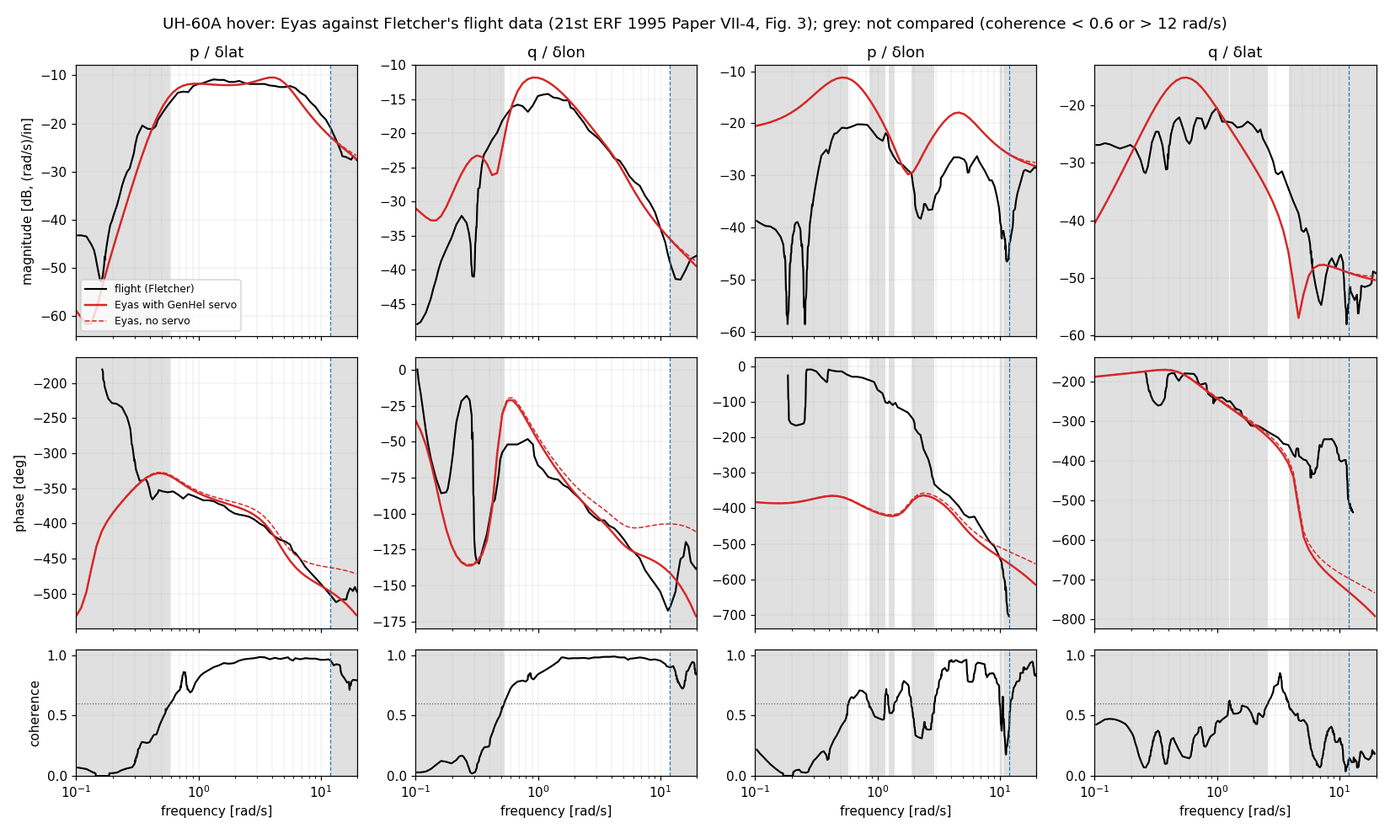
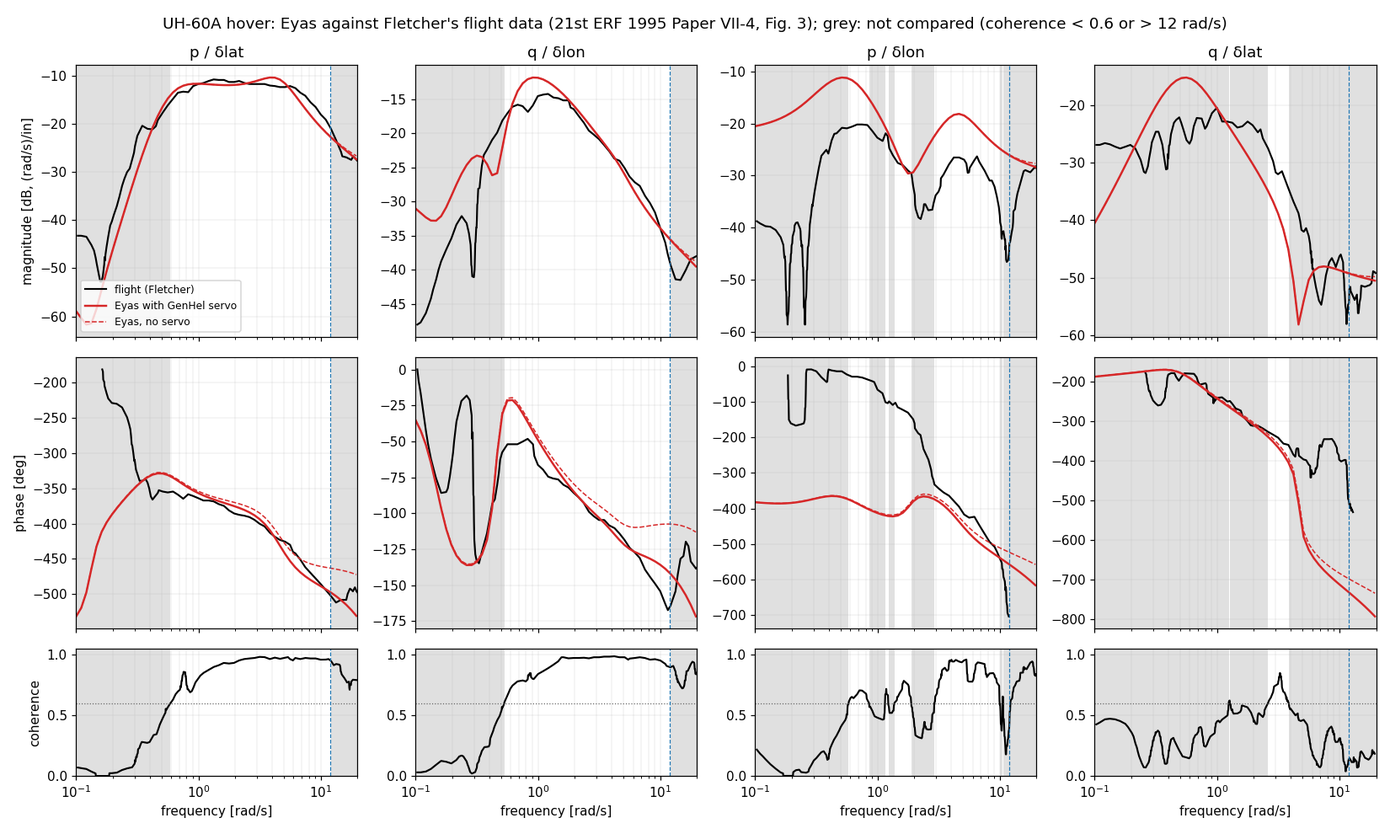
Wake curvature review: the tip-path plane on an offset hinge, three blades
- The tips sit R − e out from the hinges, so the plane tilts by (1 − e/R)
  times the flap coefficients; the test reference now differentiates the
  tip heights (it shared the old assumption). Fletcher hover rerun: q/δlat
  −29 / 30°, −8.2 / 8.3 dB; p/δlon 8.2 / 8.7 dB.
- wake_curvature needs three blades or more (with two, β_1c isn't a tilt).
- One copy of the pitt_peters check (validate); no dead fade branch;
  equation citations at the code.
- Docs: the plots' generator outputs named; App. D's section points to the
  new comparison.

Claude-Session: https://claude.ai/code/session_01URPo1vS9ZdajqvD2QM5iLx

diff --git a/tests/unit/test_pitt_peters.cpp b/tests/unit/test_pitt_peters.cpp
@@ -717,8 +717,9 @@ BladeElementRotorConfig curved_rotor(RotationDirection dir, double k_r) {
 // Eq. 11.159: the extra downwash is K_R times the disc's downward velocity):
 // the downward velocity over ΩR of the tip-path plane's points (R, ψ), from
 // the shaft's rotation (ω_h × R e_r(ψ), D-024) and from the plane's tilt rate
-// (central differences of the blades' first harmonic, the blade states
-// advanced at their own rates), fitted to cos ψ and sin ψ.
+// (central differences of the blades' tip heights' first harmonic, a tip
+// R − e out from its hinge, the blade states advanced at their own rates),
+// fitted to cos ψ and sin ψ.
 Vec3 curvature_reference(const BladeElementRotor& rotor, const SimContext& ctx,
                          const std::vector<double>& x, double k_r) {
     const BladeElementRotorConfig& c = rotor.config();
@@ -727,15 +728,16 @@ Vec3 curvature_reference(const BladeElementRotor& rotor, const SimContext& ctx,
     const double R = c.radius;
     const double s = c.direction == RotationDirection::counter_clockwise ? 1.0 : -1.0;
     const int nb = c.num_blades;
+    const double e = c.flap->offset;
     const auto tilt = [&](double tau) {
         double b1c = 0.0;
         double b1s = 0.0;
         for (int i = 0; i < nb; ++i) {
             const auto j = static_cast<std::size_t>(2 * i);
             const double psi = k.psi + W * tau - 2.0 * kPi * i / nb;
-            const double b = x[j] + x[j + 1] * tau;
-            b1c += 2.0 * b * std::cos(psi) / nb;
-            b1s += 2.0 * b * std::sin(psi) / nb;
+            const double tip_height = (R - e) * (x[j] + x[j + 1] * tau);
+            b1c += 2.0 * tip_height * std::cos(psi) / nb;
+            b1s += 2.0 * tip_height * std::sin(psi) / nb;
         }
         return std::array<double, 2>{b1c, b1s};
     };
@@ -751,7 +753,7 @@ Vec3 curvature_reference(const BladeElementRotor& rotor, const SimContext& ctx,
         const double psi = 2.0 * kPi * i / kPoints;
         const Vec3 e_r(-std::cos(psi), s * std::sin(psi), 0.0);
         const double shaft_down = k.omega_h.cross(R * e_r).z();
-        const double plane_up = R * (b1c_dot * std::cos(psi) + b1s_dot * std::sin(psi));
+        const double plane_up = b1c_dot * std::cos(psi) + b1s_dot * std::sin(psi);
         const double w = (shaft_down - plane_up) / (W * R);
         lc += 2.0 * w * std::cos(psi) / kPoints;
         ls += 2.0 * w * std::sin(psi) / kPoints;
@@ -808,6 +810,18 @@ TEST(PittPetersRotor, WakeCurvatureFromTheTipPathPlaneRate) {
             }
         }
     }
+}
+
+// The flap coefficients are a disc tilt only with three blades or more.
+TEST(PittPetersRotor, WakeCurvatureNeedsThreeBlades) {
+    BladeElementRotorConfig c = curved_rotor(RotationDirection::counter_clockwise, 1.75);
+    c.num_blades = 2;
+    EXPECT_THROW(BladeElementRotor{c}, InitError);
+    c.wake_curvature.reset();
+    EXPECT_NO_THROW(BladeElementRotor{c});
+    c = curved_rotor(RotationDirection::counter_clockwise, 1.75);
+    c.num_blades = 3;
+    EXPECT_NO_THROW(BladeElementRotor{c});
 }
 
 // Off, at K_R = 0 and from μ_f: the same bits as a rotor without the key.

diff --git a/src/rotor/blade_element_rotor.cpp b/src/rotor/blade_element_rotor.cpp
@@ -102,6 +102,11 @@ void validate(const BladeElementRotorConfig& c) {
         if (c.inflow != InflowModel::pitt_peters) {
             fail("wake_curvature needs pitt_peters inflow");
         }
+        // The flap coefficients are a disc tilt only with three blades or
+        // more (with two, β_1c carries the blades' differential flap).
+        if (c.num_blades < 3) {
+            fail("wake_curvature needs three blades or more");
+        }
         if (!(c.wake_curvature->k_r >= 0.0) || !std::isfinite(c.wake_curvature->k_r)) {
             fail("wake_curvature: k_r must be non-negative and finite");
         }
@@ -664,18 +669,21 @@ void BladeElementRotor::derivatives(const SimContext& ctx, std::span<const doubl
             out.xdot0[iv] = (target - deficit) * t.lambda_h * kin.omega /
                             (kVortexRingLagCoefficient * 2.0 * std::numbers::pi * inflow_tip_);
         }
-        // Wake curvature (D-062): the gradients relax to K_R(μ) times the
-        // tip-path plane's pitch and roll rate; nothing at K_R(μ) = 0.
+        // Wake curvature (D-062; Johnson 2013 Eqs. 11.155, 11.158): the
+        // gradients relax to K_R(μ) times the tip-path plane's pitch and roll
+        // rate; nothing at K_R(μ) = 0. The tips sit R − e out from the
+        // hinges, so the plane tilts by (1 − e/R) β_1c, β_1s.
         Vec3 curvature = Vec3::Zero();
         if (config_.wake_curvature) {
             const double k_r = wake_curvature_gain(
                 config_.wake_curvature->k_r, config_.wake_curvature->fade_advance_ratio, kin.mu);
             if (k_r > 0.0) {
-                const MultibladeFlapRate tpp =
+                const MultibladeFlapRate rate =
                     config_.flap ? multiblade_flap_rate(x, kin.psi, kin.omega, config_.num_blades)
                                  : MultibladeFlapRate{};
-                curvature =
-                    wake_curvature_inflow(k_r, kin.omega_h, tpp.beta1c, tpp.beta1s, s_, kin.omega);
+                const double tip = 1.0 - hinge_offset() / config_.radius;
+                curvature = wake_curvature_inflow(k_r, kin.omega_h, tip * rate.beta1c,
+                                                  tip * rate.beta1s, s_, kin.omega);
             }
         }
         const Vec3 rates = pitt_peters_rates(
@@ -982,9 +990,6 @@ std::unique_ptr<BladeElementRotor> BladeElementRotor::from_config(const Config& 
         const Config wc = node.child("wake_curvature");
         wc.allow_keys({"k_r", "fade_advance_ratio"});
         c.wake_curvature = WakeCurvature{wc.number("k_r"), wc.number("fade_advance_ratio")};
-        if (c.inflow != InflowModel::pitt_peters) {
-            node.fail("wake_curvature", "needs inflow: pitt_peters");
-        }
     } else if (node.string("wake_curvature") != "none") {
         node.fail("wake_curvature", "must be none or a map {k_r, fade_advance_ratio}");
     }

diff --git a/src/rotor/pitt_peters.cpp b/src/rotor/pitt_peters.cpp
@@ -69,14 +69,16 @@ Vec3 pitt_peters_rates(const Vec3& lambda, const Vec3& loads, double mu, double 
 }
 
 double wake_curvature_gain(double k_r, double fade, double mu) noexcept {
-    return mu >= fade ? 0.0 : k_r * (1.0 - smoothstep(mu / fade));
+    // smoothstep clamps at 1, so the gain is exactly 0 from μ_f.
+    return k_r * (1.0 - smoothstep(mu / fade));
 }
 
 Vec3 wake_curvature_inflow(double k_r, const Vec3& omega_h, double beta1c_dot, double beta1s_dot,
                            double s, double omega) noexcept {
     // The disc point r e_r(ψ), e_r = (−cos ψ, s sin ψ, 0) (D-024), moves down
     // (z_h) at r (q_h cos ψ + s p_h sin ψ) with the shaft and up at
-    // r (β̇_1c cos ψ + β̇_1s sin ψ) with the tip-path plane's tilt.
+    // r (β̇_1c cos ψ + β̇_1s sin ψ) with the tip-path plane's tilt (Johnson
+    // 2013 Eq. 11.159).
     return {0.0, k_r * (s * omega_h.x() - beta1s_dot) / omega,
             k_r * (omega_h.y() - beta1c_dot) / omega};
 }

diff --git a/src/rotor/pitt_peters.hpp b/src/rotor/pitt_peters.hpp
@@ -99,9 +99,9 @@ double wake_curvature_gain(double k_r, double fade, double mu) noexcept;
 // tip-path plane's downward velocity gradient over ΩR, in hub axes,
 //   λ_K,1c = K_R (q_h − β̇_1c)/Ω,  λ_K,1s = K_R (s p_h − β̇_1s)/Ω,
 // (Johnson 2013 Eqs. 11.155, 11.158–11.159), with omega_h the body rate in
-// hub axes [rad/s], (beta1c_dot, beta1s_dot) the rates of the multiblade flap
-// coefficients [rad/s], s = +1 counter-clockwise from above, −1 clockwise, and
-// omega = Ω [rad/s].
+// hub axes [rad/s], (beta1c_dot, beta1s_dot) the tip-path plane's tilt rates
+// [rad/s] (on an offset hinge, (1 − e/R) times the flap coefficients'),
+// s = +1 counter-clockwise from above, −1 clockwise, and omega = Ω [rad/s].
 Vec3 wake_curvature_inflow(double k_r, const Vec3& omega_h, double beta1c_dot, double beta1s_dot,
                            double s, double omega) noexcept;
 

diff --git a/src/rotor/multiblade.hpp b/src/rotor/multiblade.hpp
@@ -37,7 +37,7 @@ inline MultibladeFlap multiblade_flap(std::span<const double> x, double psi,
 }
 
 // Rates of the cyclic flap coefficients [rad/s] (D-062): d/dt of β_1c and
-// β_1s above, with x[2k + 1] = β̇_k and ψ̇ = omega = Ω [rad/s]:
+// β_1s above (Padfield 3rd ed. Eqs. 3.42–3.45), with x[2k + 1] = β̇_k and ψ̇ = omega = Ω [rad/s]:
 //   β̇_1c = (2/N) Σ (β̇_k cos ψ_k − Ω β_k sin ψ_k),
 //   β̇_1s = (2/N) Σ (β̇_k sin ψ_k + Ω β_k cos ψ_k).
 struct MultibladeFlapRate {

diff --git a/docs/VALIDATION.md b/docs/VALIDATION.md
@@ -880,7 +880,7 @@ Cruise main-rotor power is in D-039 (mean −45 hp against GenHel); with GenHel'
 
 - *On-axis, 1.5–12 rad/s (roll from lateral, pitch from longitudinal):* Eyas matches the flight data in both conditions: magnitude within 1.6 dB RMS, phase within 12° RMS. This is the band of the rotor-fuselage coupled roll and pitch response that flight control design works in.
 - *On-axis, below 1.5 rad/s (the whole-aircraft modes), open:* in hover, Eyas's pitch response is 3.7 dB too large on average from 0.56 rad/s (where the coherence first reaches 0.6) to 1.5 rad/s, with a higher peak near 0.7 rad/s. At 80 kt the magnitudes are close, but Eyas leads in phase: 27° on average in roll, below 1 rad/s, and 43° in pitch at 0.2–1 rad/s, up to 85°. The flight roll response stays flat in magnitude down to 0.1 rad/s; Eyas's falls by about 5 dB, with phase lead, as with a stronger roll restoring moment through sideslip. The likely suspects are the slow-mode derivatives: the speed and incidence stability in pitch, and the dihedral and weathercock stability in roll and yaw. The condensed-model modes against Padfield §4.3 (the rest of V2) are the next check.
-- *Off-axis (roll from longitudinal, pitch from lateral), known limitation:* Eyas misses badly in both conditions (phase off by 140–160° on average in hover; magnitude off by up to 13 dB in hover and 28 dB at 80 kt). This is the documented limitation of blade-element rotors with Pitt–Peters inflow. Fletcher (p. VII-4-3) writes that such models "predict the on-axis responses well to about 10 rad/sec but have deficiencies in their off-axis angular rate response prediction", reports the same for AH-64 and BO 105 models, and attributes it to the wake distortion in pitch and roll that Pitt–Peters doesn't model (p. VII-4-4, after Rosen). Padfield 3rd ed. §5.3.3 (p. 298) calls it "a common feature of current modelling standards". Fletcher's fix is an identified aerodynamic phase lag in the flapping equations, a fitted equivalent. A wake-distortion model is added to M9 (D-041). *Since D-062* (M9, "Wake curvature"): the hover pitch-from-lateral phase error falls to −30 / 32°; roll from longitudinal grows to 8.9 dB RMS (#100); 80 kt unchanged.
+- *Off-axis (roll from longitudinal, pitch from lateral), known limitation:* Eyas misses badly in both conditions (phase off by 140–160° on average in hover; magnitude off by up to 13 dB in hover and 28 dB at 80 kt). This is the documented limitation of blade-element rotors with Pitt–Peters inflow. Fletcher (p. VII-4-3) writes that such models "predict the on-axis responses well to about 10 rad/sec but have deficiencies in their off-axis angular rate response prediction", reports the same for AH-64 and BO 105 models, and attributes it to the wake distortion in pitch and roll that Pitt–Peters doesn't model (p. VII-4-4, after Rosen). Padfield 3rd ed. §5.3.3 (p. 298) calls it "a common feature of current modelling standards". Fletcher's fix is an identified aerodynamic phase lag in the flapping equations, a fitted equivalent. A wake-distortion model is added to M9 (D-041). *Since D-062* (M9, "Wake curvature"): the hover pitch-from-lateral phase error falls to −29 / 30°; roll from longitudinal grows to 8.7 dB RMS (#100); 80 kt unchanged.
 - *Yaw rate to collective (Figs. 7 and 13), open:* `tools/plot_m7c_fletcher.py` also compares r per inch of collective (`m7c_fletcher_yaw.png`) against the reviewed flight curves (DATA_GAPS.md). Every reading Fletcher drew is compared, since these figures have no coherence panel: 0.53–9.5 rad/s in hover and 3.2–9.6 rad/s at 80 kt. Eyas with the servo, mean / RMS:
 
   | | magnitude [dB] | phase [deg] |
@@ -1328,7 +1328,7 @@ Generator `eyas_ballin_app_d_cases` (`tests/validation/ballin_app_d_cases.cpp`),
   - *Main rotor, through the mixer's MIX_BP:* −9 480 ft·lbf/in, against −9 300 from the hinge-offset spring (N/2)eM_βΩ², the thrust tilt T·h and the thrust change at the hub's offset, for Eyas's 1.90°/in of β₁c. The flapping per degree of cyclic behind it matched Fletcher's flight data at M7c (on-axis pitch, 0.8 dB at 80 kt).
   - *Stabilator wash:* +1.95 ft/s/in, against +1.94 from the tail-wash table (Table 3.5.2, p. 5.3-20). It comes from the main rotor's downwash dropping with its thrust; the flapping input a₁ barely moves the factor, so the AA1FMR ruling (DATA_GAPS.md) doesn't enter.
   The net held response is about −2 800 ft·lbf/in nose-down for right pedal. Most of the gap from GenHel builds later. In D16, GenHel's pitch rate is −1.6 deg/s and Eyas's −0.8 at 0.55 s after the pedal moves, but −8.0 and −3.9 at 1.3 s, while the sideslip grows from −1° to −11° and the yaw rate to 15 deg/s. In that phase Eyas's stabilator turns nose-up (+2 000 to +3 700 ft·lbf as its angle of attack falls by about 1.3°) and stops the motion. The suspects are now the sideslip- and rate-dependent airframe terms (the fuselage and stabilator tables against sideslip, the stabilator's dynamic-pressure ratio), and anything in the Ames simulation that CR-166309 doesn't describe. Open.
-- *Off-axis* (pitch and yaw to lateral, roll to longitudinal): all three simulations miss parts of the test's off-axis response, as Ballin says of GenHel (p. 11, the linear mechanical mixing). Not yet compared in detail.
+- *Off-axis* (pitch and yaw to lateral, roll to longitudinal): all three simulations miss parts of the test's off-axis response, as Ballin says of GenHel (p. 11, the linear mechanical mixing). Not yet compared in detail. *Since D-062* (M9, "Wake curvature"), the hover steps' off-axis responses are compared there; the plots in this section are without wake curvature.
 
 ![D1](validation/m8/ballin_app_d_d1.png)
 ![D13](validation/m8/ballin_app_d_d13.png)
@@ -2008,10 +2008,10 @@ Johnson's wake curvature on the Pitt–Peters inflow gradients (D-062): K_R = 1.
 |---|---|---|
 | Exact-equation reference, rotor wiring, neutrality, real-time | ✅ | `PittPeters.WakeCurvature*`, `PittPetersRotor.WakeCurvature*`: Johnson's Eq. 11.155 in his own notation; the rotor against the tip-path-plane rate computed independently, both rotation directions; `none`, K_R = 0 and μ ≥ 0.125 bit-identical; no allocation. |
 | Closed form, Johnson Eq. 19.92 | ✅ | `PittPetersAnchors.WakeCurvatureScalesTheOffAxisFlapping`: the change in off-axis static flapping is −K_R α̇ within 1 % (K_R = 0.5 and 1.75), and the on-axis flapping is unchanged within 1 %. |
-| Fletcher hover q/δlat: phase error below 90° | ✅ | −164 / 164° → −30 / 32° (mean / RMS). |
-| Fletcher hover p/δlon: phase error below 90° | ✅ | −72 / 89° → −61 / 101°. |
-| Off-axis magnitude RMS no worse | ❌ p/δlon, ✅ q/δlat | p/δlon 5.7 → 8.9 dB; q/δlat 10.6 → 8.5 dB. The cause is a cross-coupling deficit the term uncovers (D-062; #100). |
-| On-axis moves under 1 dB and 10° RMS | ✅ | 1.5–12 rad/s: within 0.1 dB and 1.6°. |
+| Fletcher hover q/δlat: phase error below 90° | ✅ | −164 / 164° → −29 / 30° (mean / RMS). |
+| Fletcher hover p/δlon: phase error below 90° | ✅ | −72 / 89° → −62 / 102°. |
+| Off-axis magnitude RMS no worse | ❌ p/δlon, ✅ q/δlat | p/δlon 5.7 → 8.7 dB; q/δlat 10.6 → 8.3 dB. The cause is a cross-coupling deficit the term uncovers (D-062; #100). |
+| On-axis moves under 1 dB and 10° RMS | ✅ | 1.5–12 rad/s: within 0.1 dB and 1.5°. |
 | Fletcher 80 kt | ✅ | Bit-identical (K_R = 0 above μ = 0.125). |
 | Ballin's App. D/E hover steps | ✅ reported | Pitch from lateral steps follows the flight test (below). |
 | The V1 gate and the climbs | ✅ | `BallinTrim.*` pass unchanged. `eyas_m7c_cases` on Ballin's engines: every level, climb and descent trim agrees with the baseline to the solver's tolerance (sixth significant figure). A steady trim has a tip-path-plane rate only in its 4/rev ripple, so the term barely enters. |
@@ -2021,14 +2021,14 @@ Johnson's wake curvature on the Pitt–Peters inflow gradients (D-062): K_R = 1.
 | | magnitude [dB] | phase [deg] |
 |---|---|---|
 | p/δlat | −0.6 / 1.6 → −0.6 / 1.7 | −3.5 / 11.5 → −3.1 / 11.3 |
-| q/δlon | 0.0 / 1.2 → −0.1 / 1.1 | 3.0 / 8.7 → 4.9 / 10.3 |
-| p/δlon | 5.1 / 5.7 → 8.4 / 8.9 | −71 / 89 → −61 / 101 |
-| q/δlat | −10.5 / 10.7 → −8.3 / 8.5 | −164 / 164 → −30 / 32 |
+| q/δlon | 0.0 / 1.2 → −0.1 / 1.1 | 3.0 / 8.7 → 4.8 / 10.1 |
+| p/δlon | 5.1 / 5.7 → 8.2 / 8.7 | −71 / 89 → −62 / 102 |
+| q/δlat | −10.5 / 10.7 → −8.1 / 8.3 | −164 / 164 → −29 / 30 |
 
-- *Below 1.5 rad/s, on-axis:* the magnitudes get closer (p/δlat 2.2 → 1.0, q/δlon 4.0 → 2.6 dB RMS), and the phases get further (3.0 → 12.1°, 10.8 → 18.9°).
-- *Sensitivity* (D-062's table): q/δlat improves with K_R (RMS 10.7 / 8.5 / 6.8 / 5.6 dB at 1.5 / 1.75 / 2.0 / 2.2), and p/δlon worsens (8.5 / 8.9 / 9.3 / 9.7 dB). No value in the sources' range passes both.
+- *Below 1.5 rad/s, on-axis:* the magnitudes get closer (p/δlat 2.2 → 1.0, q/δlon 4.0 → 2.6 dB RMS), and the phases get further (3.0 → 12.2°, 10.8 → 18.9°).
+- *Sensitivity* (D-062's table): q/δlat improves with K_R (RMS 10.5 / 8.3 / 6.6 / 5.4 dB at 1.5 / 1.75 / 2.0 / 2.2), and p/δlon worsens (8.3 / 8.7 / 9.1 / 9.4 dB). No value in the sources' range passes both.
 - *The hover modes:* the pitch subsidence goes from −1.02 to −0.87 1/s and the roll subsidence from −5.93 to −5.64. The low-frequency oscillation becomes more unstable (+0.201 ± 0.356i → +0.251 ± 0.316i), and its stable partner becomes more damped (−0.176 ± 0.470i → −0.287 ± 0.488i).
-- *Why p/δlon grows* (D-062, the probes): the term flips the roll moment from pitch rate (L_q −0.87 → +1.32), as Johnson's Eq. 21.51 has it for K_R > 1. Before, that moment partly cancelled the direct roll from longitudinal cyclic; now the two add. The direct coupling itself is too large: Eyas's rotor cross-couples about 4° less than the one GenHel's −9.7° swashplate phase was set for. With Fletcher's identified δ3 = 7.84° added (a probe, not adopted), both off-axis responses come within 4.5 dB and 38° RMS. Open in #100, a source for the hardware's coupling in #101.
+- *Why p/δlon grows* (D-062, the probes): the term flips the roll moment from pitch rate (L_q −0.87 → +1.32), as Johnson's Eq. 21.51 has it for K_R > 1. Before, that moment partly cancelled the direct roll from longitudinal cyclic; now the two add. The direct coupling itself is too large: Eyas's rotor cross-couples about 4° less than the one GenHel's −9.7° swashplate phase was set for. With Fletcher's identified δ3 = 7.84° added (a probe on the first version, before the hinge-offset fix; not adopted), both off-axis responses come within 4.5 dB and 38° RMS. Open in #100, a source for the hardware's coupling in #101.
 
 **Ballin's App. D/E hover steps, Eyas − flight test, RMS over the 2 s from the input** (GenHel's servos; off → on; the 60 and 100 kt cases are unchanged):
 
@@ -2036,10 +2036,10 @@ Johnson's wake curvature on the Pitt–Peters inflow gradients (D-062): K_R = 1.
 |---|---|---|---|
 | D1 | 1-in. right cyclic | pitch rate 1.56 → 0.35 deg/s | roll rate 1.13 → 1.00 deg/s |
 | D2 | 1-in. left cyclic | pitch rate 2.05 → 0.57 deg/s | roll rate 1.20 → 1.13 deg/s |
-| D3 | 0.5-in. forward cyclic | roll rate 0.64 → 1.06 deg/s | pitch rate 0.99 → 0.96 deg/s |
-| E1 | 0.5-in. aft cyclic | roll rate 1.75 → 0.89 deg/s | pitch rate 2.15 → 2.30 deg/s |
+| D3 | 0.5-in. forward cyclic | roll rate 0.64 → 1.07 deg/s | pitch rate 0.99 → 0.96 deg/s |
+| E1 | 0.5-in. aft cyclic | roll rate 1.75 → 0.88 deg/s | pitch rate 2.15 → 2.30 deg/s |
 | D4 | 1-in. up collective | pitch rate 1.52 → 1.32, roll rate 0.45 → 0.73 deg/s | vertical accel. 0.79 → 0.78 ft/s² |
-| D5 | 1-in. left pedal | pitch rate 4.51 → 3.92, roll rate 1.59 → 2.27 deg/s | yaw rate 3.99 → 4.15 deg/s |
+| D5 | 1-in. left pedal | pitch rate 4.51 → 3.91, roll rate 1.59 → 2.26 deg/s | yaw rate 3.99 → 4.15 deg/s |
 | E2 | 0.5-in. down collective (WL 243.8) | pitch rate 0.74 → 0.57, roll rate 1.69 → 1.83 deg/s | vertical accel. unchanged |
 
 The lateral steps are independent flight data that agree with Fletcher's q/δlat. After a right step the test pitches nose-down, and Eyas now does too (D1 below; before, it pitched nose-up with the Ames GenHel). The forward step (D3) rolls left, as the test does, but by about 2 deg/s against about 0.7: the same p/δlon excess as in Fletcher's data. The aft step (E1) improves.
@@ -2050,4 +2050,4 @@ The lateral steps are independent flight data that agree with Fletcher's q/δlat
 
 ![Ballin Fig. D3 with wake curvature](validation/m9/m9_wake_curvature_d3.png)
 
-*Reproduce:* `./build/release/tests/eyas_m7c_fletcher <dir> data/uh60a/engine_ballin/uh60a_fletcher.yaml`, then `tools/plot_m7c_fletcher.py <dir> <plots>`; `./build/release/tests/eyas_ballin_app_d_cases <dir>`, then `tools/plot_ballin_app_d.py <dir> <plots>`. The baseline is the same generators at ed924b1. Both run nightly in `full-verification.yml`.
+*Reproduce:* `./build/release/tests/eyas_m7c_fletcher <dir> data/uh60a/engine_ballin/uh60a_fletcher.yaml`, then `tools/plot_m7c_fletcher.py <dir> <plots>` (its `m7c_fletcher_hover.png` is `m9_wake_curvature_hover.png`); `./build/release/tests/eyas_ballin_app_d_cases <dir>`, then `tools/plot_ballin_app_d.py <dir> <plots>` (its `ballin_d1.png` and `ballin_d3.png` are `m9_wake_curvature_d1.png` and `_d3.png`). The baseline is the same generators at ed924b1. Both run nightly in `full-verification.yml`.

diff --git a/docs/DECISIONS.md b/docs/DECISIONS.md
@@ -1541,7 +1541,7 @@ Also: accel_b against a central difference of the flown velocity (< 5e-3 m/s²);
   L M λ̇ + λ = L C + A α̇_TPP,  A: λ_c += K_R α̇_y,TPP, λ_s += −K_R α̇_x,TPP (dimensionless rates, over Ω),
 with α̇_y,TPP = α̇_y − β̇_1c and α̇_x,TPP = α̇_x + β̇_1s. In the production form (D-027) that is M̃ dλ/dτ = C − V L̂⁻¹ (λ − λ_K): the wake-curvature inflow λ_K is the quasi-static target the gradients relax to, behind their own time constants, with no new states. Written in Eyas's hub axes (D-024: z_h down, e_r = (−cos ψ, s sin ψ, 0)) from Johnson's vortex-theory reading (Eq. 11.159: the extra downwash is K_R times the disc's own downward velocity, which slows the wake's convection), λ_K is K_R times the linear part of the tip-path plane's downward velocity over ΩR:
   λ_K,1c = K_R (q_h − β̇_1c)/Ω,  λ_K,1s = K_R (s p_h − β̇_1s)/Ω,
-with (p_h, q_h) the body rate in hub axes and β̇_1c, β̇_1s the rates of the multiblade flap coefficients (Padfield 3rd ed. Eqs. 3.42–3.45, differentiated at ψ̇ = Ω). Check of signs: a nose-up pitch rate moves the aft disc (ψ = 0) down, slows the convection there and raises the downwash aft (λ_1c > 0); Johnson's Eq. 19.92 then gives the static off-axis flapping from shaft rate scaled by (1 − K_R) at ν_β = 1, which is what flips the sign (the test below).
+with (p_h, q_h) the body rate in hub axes and β̇_1c, β̇_1s the tip-path plane's tilt rates: the rates of the multiblade flap coefficients (Padfield 3rd ed. Eqs. 3.42–3.45, differentiated at ψ̇ = Ω) times (1 − e/R), since the tips sit R − e out from the offset hinges (D-026; 1 at e = 0, Johnson's case). Check of signs: a nose-up pitch rate moves the aft disc (ψ = 0) down, slows the convection there and raises the downwash aft (λ_1c > 0); Johnson's Eq. 19.92 then gives the static off-axis flapping from shaft rate scaled by (1 − K_R) at ν_β = 1, which is what flips the sign (the test below).
 
 **Decisions and their alternatives:**
 1. *Formulation: K_R on the tip-path-plane rate (Johnson Eq. 11.155, after Keller & Curtiss 1998).* The wake follows the disc, not the shaft.
@@ -1567,7 +1567,7 @@ with (p_h, q_h) the body rate in hub axes and β̇_1c, β̇_1s the rates of the 
    - Alternative: Kramer et al.'s Bo-105 values, which keep K_R ≈ 1.1–1.6 at 80 kt. That is a hingeless rotor, not the UH-60A.
 4. *Where it enters: all of V L̂⁻¹(λ − λ_K), as the equation reads.* λ_K has no mean part, so in hover only the two moment rows see it. In skewed flow the thrust row's coupling to λ_1c carries it too, faded out by μ = 0.125.
    - With tip loss on the inflow (D-051), the moment rows are the full disc's, so λ_K enters unscaled.
-   - The hinge offset is not modeled in the gradient; Johnson's derivation is for e = 0.
+   - The hinge offset enters only through the tip-path plane's geometry, (1 − e/R) on the flap rates (review of PR #102: the first version used the flap coefficients' rates as the plane's, about 5 % too large for the UH-60A). Johnson's derivation is for e = 0; nothing else is changed for the offset.
 5. *Config: `wake_curvature`, required (D-021).* It is `none` or a map {`k_r`, `fade_advance_ratio`} (dimensionless) and is allowed only with `inflow: pitt_peters`. With `none`, or at K_R(μ) = 0, the result is bit-identical to Eyas without it.
    - The UH-60A configs (`tools/build_uh60a_config.py`) get it on with the values above, if the validation below passes. Otherwise it is `none` and the failure is reported. (It failed one criterion and is on by the spec owner's ruling: Outcome below.)
    - No §6 interface changes.
@@ -1595,13 +1595,13 @@ with (p_h, q_h) the body rate in hub axes and β̇_1c, β̇_1s the rates of the 
 
 | | off | K_R 1.5 | **1.75** | 2.0 | 2.2 |
 |---|---|---|---|---|---|
-| q/δlat phase [deg] | −164 / 164 | −38 / 41 | **−30 / 32** | −25 / 26 | −22 / 23 |
-| q/δlat magnitude [dB] | −10.5 / 10.6 | −10.5 / 10.7 | **−8.4 / 8.5** | −6.6 / 6.8 | −5.4 / 5.6 |
-| p/δlon phase [deg] | −72 / 89 | −62 / 99 | **−61 / 101** | −60 / 103 | −60 / 105 |
-| p/δlon magnitude [dB] | 5.1 / 5.7 | 7.9 / 8.5 | **8.4 / 8.9** | 8.8 / 9.3 | 9.2 / 9.7 |
+| q/δlat phase [deg] | −164 / 164 | −36 / 39 | **−29 / 30** | −24 / 25 | −21 / 22 |
+| q/δlat magnitude [dB] | −10.5 / 10.6 | −10.3 / 10.5 | **−8.2 / 8.3** | −6.4 / 6.6 | −5.2 / 5.4 |
+| p/δlon phase [deg] | −72 / 89 | −63 / 100 | **−62 / 102** | −62 / 104 | −61 / 106 |
+| p/δlon magnitude [dB] | 5.1 / 5.7 | 7.7 / 8.3 | **8.2 / 8.7** | 8.6 / 9.1 | 9.0 / 9.4 |
 
 - *Phase below 90°:* passes, both off-axis responses.
-- *Magnitude RMS no worse:* q/δlat passes; **p/δlon fails** (5.7 → 8.9 dB), at every K_R tried.
+- *Magnitude RMS no worse:* q/δlat passes; **p/δlon fails** (5.7 → 8.7 dB), at every K_R tried.
 - *On-axis:* passes (1.5–12 rad/s within 0.1 dB and 1.6° RMS). Below 1.5 rad/s the magnitudes get closer (p/δlat 2.3 → 1.0, q/δlon 4.0 → 2.6 dB RMS) and the phases further (3.0 → 12.2°, 10.9 → 19.0°).
 - *80 kt:* bit-identical. The M7 regression: VALIDATION.md.
 
@@ -1611,5 +1611,6 @@ The rule in decision 5 would leave the term off. The spec owner ruled it on (202
 - The hover roll derivatives: L_δlon −0.774 with and without the term; L_q −0.867 → +1.324. The term flips the roll moment from pitch rate, as Johnson's Eq. 21.51 has it for K_R > 1 (the coupling (1 − K_R) θ̇). Before, L_q·q partly cancelled L_δlon in the response; now the two add.
 - So the deficit is in the direct control coupling L_δlon. With GenHel's swashplate phase set to 0, L_δlon = +0.984: Eyas's rotor alone cross-couples by about +5.4° of the cyclic's direction, and the −9.7° phase over-corrects it to −4.3°. Over 3–10 rad/s the effective cross-coupling angle is about 13° in Eyas against about 4° in the flight data: Eyas's rotor cross-couples about 4° less than the rotor the 9.7° was set for.
 - Adding Fletcher's identified δ3 (7.84°) as pitch-flap coupling, with the term on: p/δlon 4.1 / 4.4 dB, −20 / 28°; q/δlat −4.5 / 4.5 dB, −37 / 38°. Both off-axis responses then beat the term-off model. Without the term, δ3 alone leaves q/δlat at −115°. Fletcher's δ3 is an identified equivalent and GenHel's δ3 is 0 (DATA_GAPS, human-confirmed), so it isn't adopted.
+- The probes ran on the first version (no (1 − e/R)); the table above is rerun with the hinge-offset fix, which moves it by at most 0.3 dB and 2° (the first version: q/δlat −30 / 32°, −8.4 / 8.5 dB; p/δlon 8.4 / 8.9 dB), both off-axis responses closer.
 - Ruled out: the longitudinal-to-pedal mixing (no effect); D-027's eq. 23b moment mass flow (p/δlon 6.0 dB off, 9.2 on); the shaft-rate form of decision 1 (p/δlon 5.1 dB but phase −99 / 127°).
 - Open, issue #100: the candidates are pitch-flap coupling in the hardware (a source, #101), lag dynamics and lag-pitch coupling (#43), blade torsion (#45) and a higher-order wake (#43).
